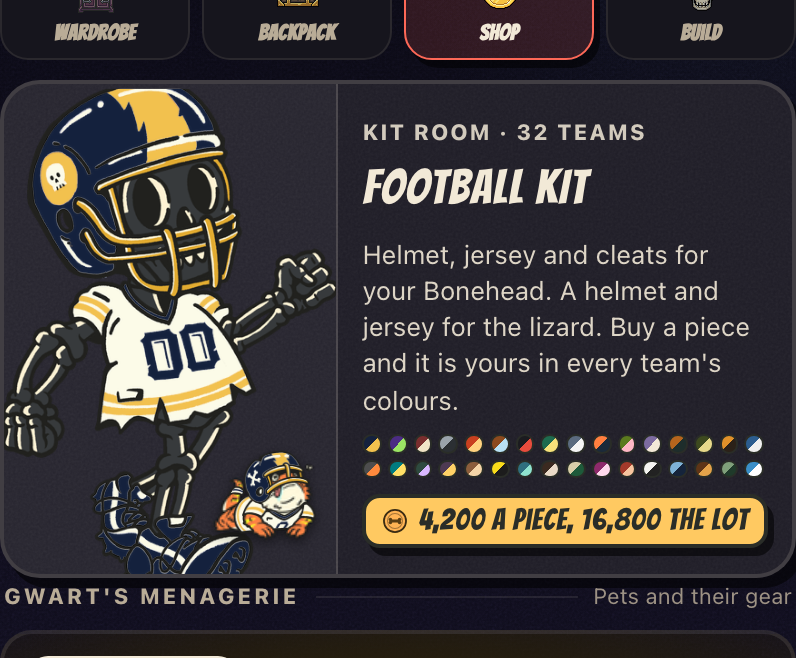
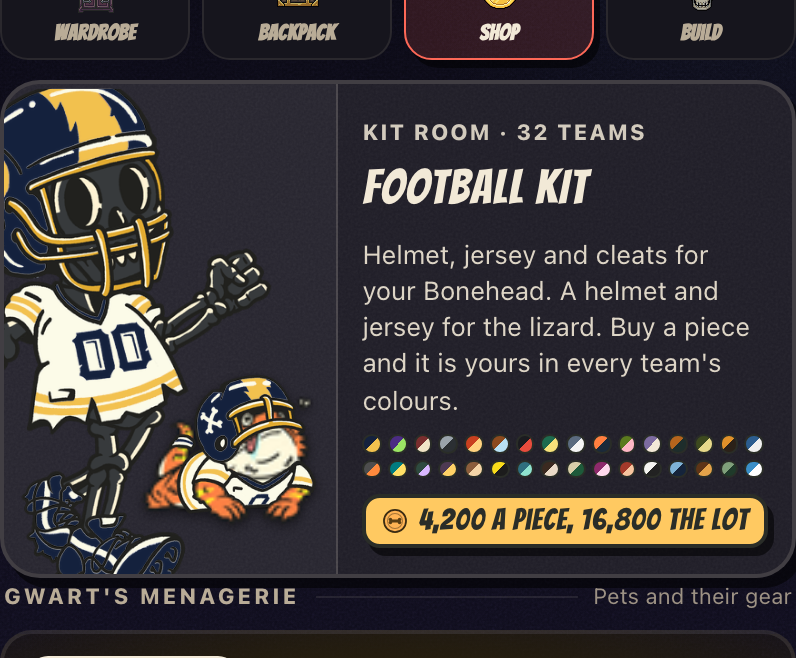
Kit Room poster: the lizard at a real size (108px) in the corner, the Bonehead stood left of centre to make room

Changed region(s): [[0.0, 0.1216, 0.4221, 0.8815]]

diff --git a/app.css b/app.css
@@ -6571,10 +6571,11 @@ body::before {
 .fb-hero { position: relative; flex: 0 0 44%; min-width: 150px; align-self: stretch; overflow: hidden;
   background: rgba(255, 255, 255, .04); border-right: 1px solid var(--line-strong); }
 .fb-hero .pc-worn { transform: translateX(-50%); }
-.fb-hero .pc-worn.fit-body .bh-anim { transform-origin: 50% 50%; transform: translateY(2%) scale(1.02); }
+/* the Bonehead stands left of centre so the lizard (Tom: 'far too small') gets the bottom-right corner at a real size */
+.fb-hero .pc-worn.fit-body .bh-anim { transform-origin: 50% 50%; transform: translate(-12%, 2%) scale(1.02); }
 /* one line: the two prices at the poster's chip size wrapped "the / lot" in a 230px column */
 .fb-drop .t3-price { font-size: 15px; white-space: nowrap; }
-.fb-hero-pet { position: absolute; right: 4px; bottom: 4px; filter: drop-shadow(0 2px 3px rgba(0, 0, 0, .45)); }
+.fb-hero-pet { position: absolute; right: 0; bottom: 2px; filter: drop-shadow(0 2px 3px rgba(0, 0, 0, .45)); }
 .fb-hero-pet .petcrop { display: block; }
 .fb-teams { display: grid; grid-template-columns: repeat(16, minmax(0, 1fr)); gap: 3px; margin: 0 0 8px; }
 .drop-item.fb::before { content: 'KIT'; }

diff --git a/js/app.js b/js/app.js
@@ -9379,7 +9379,7 @@ function footballShelfHtml(ownedCos, coinBal, open = false) {
       <div class="fb-hero">
         <div class="pc-worn fit-body">${avatarLayersHtml({ ...RACK_BASE, ...Object.fromEntries(sold.filter(g => !g.pets).map(g => [g.slot, footballItemId(team.id, g.key)])) },
           { wpnAura: null, skip: ['C'], thumb: bhTierFor(260) })}</div>
-        <span class="fb-hero-pet">${croppedPetImg(FOOTBALL_PETS[0], 64, false, null,
+        <span class="fb-hero-pet">${croppedPetImg(FOOTBALL_PETS[0], 108, false, null,
           Object.fromEntries(sold.filter(g => g.pets).map(g => [g.slot, footballItemId(team.id, g.key)])), 192)}</span>
       </div>
       <div class="tx">
